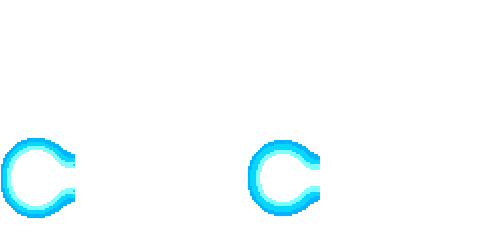
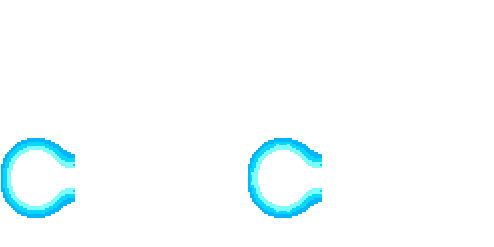
kameha ok, revori collision

Changed region(s): [[0.4858, 0.5385, 0.668, 0.9069]]

diff --git a/src/main/java/com/andres_k/components/gameComponents/gameObject/objects/entities/Kamehameha.java b/src/main/java/com/andres_k/components/gameComponents/gameObject/objects/entities/Kamehameha.java
@@ -2,37 +2,71 @@ package com.andres_k.components.gameComponents.gameObject.objects.entities;
 
 import com.andres_k.components.eventComponent.input.EInput;
 import com.andres_k.components.gameComponents.animations.AnimatorController;
+import com.andres_k.components.gameComponents.animations.EAnimation;
 import com.andres_k.components.gameComponents.collisions.PhysicalObject;
 import com.andres_k.components.gameComponents.gameObject.EGameObject;
 import com.andres_k.components.gameComponents.gameObject.GameObject;
 import com.andres_k.components.gameComponents.gameObject.commands.movement.EDirection;
-import com.andres_k.utils.configs.GameConfig;
 import com.andres_k.utils.configs.GlobalVariable;
+import com.andres_k.utils.stockage.Pair;
 import com.andres_k.utils.tools.Console;
-import org.newdawn.slick.Animation;
+import com.andres_k.utils.tools.MathTools;
+import org.newdawn.slick.Graphics;
 import org.newdawn.slick.SlickException;
 
+import java.util.ArrayList;
+import java.util.List;
 import java.util.UUID;
 
 /**
  * Created by andres_k on 23/02/2016.
  */
 public class Kamehameha extends PhysicalObject {
-    private Animation body;
-    private Animation back;
-    private String parent;
+    private List<Pair<Float, AnimatorController>> bodiesAnim;
+    private AnimatorController body;
+    private AnimatorController back;
+    private boolean canCreateBodies;
+    private float saveX;
 
-    public Kamehameha(AnimatorController head, String parent, float x, float y, EDirection direction, float damage, float speed) {
-        super(head, EGameObject.KAMEHA, parent + GlobalVariable.id_delimiter + UUID.randomUUID().toString(), x, y, damage, damage, speed, 0);
+    public Kamehameha(AnimatorController head, AnimatorController body, AnimatorController back, String parent, float x, float y, EDirection direction, float damage, float speed) {
+        super(head, EGameObject.KAMEHA, parent + GlobalVariable.id_delimiter + UUID.randomUUID().toString(), (direction == EDirection.RIGHT ? x : x - 300), y + 10, damage, damage, speed, 0);
         this.movement.setMoveDirection(direction);
         this.animatorController.setEyesDirection(direction);
-        this.parent = parent;
-        this.movement.setPushX(GameConfig.speedTravel);
+        this.body = body;
+        this.back = back;
+        this.back.setPrintable(false);
+        this.back.setEyesDirection(direction);
+        this.body.setPrintable(false);
+        this.body.setEyesDirection(direction);
+        this.bodiesAnim = new ArrayList<>();
+        this.canCreateBodies = false;
+        if (direction == EDirection.RIGHT) {
+            this.saveX = x - 140;
+        } else {
+
+            this.saveX = x - 470;
+        }
     }
 
     @Override
     public void clear() {
+        this.bodiesAnim.clear();
+    }
 
+    @Override
+    public void draw(Graphics g) throws SlickException {
+        for (Pair<Float, AnimatorController> item : this.bodiesAnim) {
+            if (item.getV1() != this.saveX) {
+                item.getV2().draw(g, item.getV1(), this.graphicalY());
+            }
+        }
+        if (this.body != null) {
+            this.body.draw(g, this.getMaxBodyX(), this.graphicalY());
+        }
+        if (this.back != null) {
+            this.back.draw(g, this.saveX, this.graphicalY());
+        }
+        super.draw(g);
     }
 
     @Override
@@ -40,6 +74,20 @@ public class Kamehameha extends PhysicalObject {
         this.animatorController.update();
         this.animatorController.doCurrentAction(this);
         this.movement.update();
+        this.back.update();
+        this.body.update();
+        this.bodiesAnim.stream().forEach(item -> item.getV2().update());
+        if (this.animatorController.currentAnimationType() == EAnimation.SPE_ATTACK_1) {
+            this.body.setPrintable(true);
+            this.back.setPrintable(true);
+            this.canCreateBodies = true;
+        }
+        this.createNewBodySegment();
+    }
+
+    @Override
+    public boolean isNeedDelete() {
+        return (this.animatorController == null || this.back.isDeleted());
     }
 
     @Override
@@ -56,10 +104,38 @@ public class Kamehameha extends PhysicalObject {
     }
 
     @Override
+    public void die() {
+        super.die();
+        this.back.setCurrentAnimationType(EAnimation.EXPLODE);
+        this.body.setCurrentAnimationType(EAnimation.EXPLODE);
+        for (Pair<Float, AnimatorController> item : this.bodiesAnim) {
+            item.getV2().setCurrentAnimationType(EAnimation.EXPLODE);
+        }
+    }
+
+    @Override
     public void manageEachCollisionExceptHit(EGameObject mine, GameObject enemy, EGameObject him) {
         if (him == EGameObject.BLOCK_BODY && enemy.getType().isIn(EGameObject.DEADPAN)) {
             Console.write("KAMEHA DIE");
             this.die();
+        }
+    }
+
+    private void createNewBodySegment() throws SlickException {
+        if (this.body != null && this.canCreateBodies) {
+            if (MathTools.abs(this.graphicalX() - this.getMaxBodyX()) >= 60) {
+                this.bodiesAnim.add(new Pair<>(this.getMaxBodyX(), new AnimatorController(this.body)));
+            }
+        }
+    }
+
+    private float getMaxBodyX() {
+        if (this.bodiesAnim.isEmpty())
+            return this.saveX;
+        if (this.animatorController.getEyesDirection() == EDirection.RIGHT) {
+            return this.bodiesAnim.get(this.bodiesAnim.size() - 1).getV1() + 60;
+        } else {
+            return this.bodiesAnim.get(this.bodiesAnim.size() - 1).getV1() - 60;
         }
     }
 

diff --git a/src/main/java/com/andres_k/components/resourceComponent/resources/factory/AnimatorGameFactory.java b/src/main/java/com/andres_k/components/resourceComponent/resources/factory/AnimatorGameFactory.java
@@ -96,7 +96,7 @@ public class AnimatorGameFactory extends AnimatorFactory {
             animatorController.addCollision(EAnimation.HAND_FLY_PROPELS, 0, StringTools.readInput(getClass().getClassLoader().getResourceAsStream(ConfigPath.jsonCollision + "/player" + name + state + "/gokuHandFlyPropels.json")));
             animatorController.addConfig(EAnimation.HAND_FLY_PROPELS, 0, new AnimatorConfig(GokuActions.class.getMethod("handFlyPropels", GameObject.class), true, EAnimation.FALL_FORCED));
             // SPE_ATTACK_1
-            animatorController.addAnimation(EAnimation.SPE_ATTACK_1, 0, AnimationFactory.createAnimation(new SpriteSheet(ConfigPath.image_game + name + state + "/gokuKamehameha.png", 247, 247), EAnimation.HAND_FLY_PROPELS.isLoop(), 0, 10, 0, 1, new int[]{300, 350, 400, 400, 620, 200, 800, 150, 150, 150}));
+            animatorController.addAnimation(EAnimation.SPE_ATTACK_1, 0, AnimationFactory.createAnimation(new SpriteSheet(ConfigPath.image_game + name + state + "/gokuKamehameha.png", 247, 247), EAnimation.HAND_FLY_PROPELS.isLoop(), 0, 10, 0, 1, new int[]{300, 350, 400, 400, 620, 200, 1000, 150, 150, 150}));
             animatorController.addCollision(EAnimation.SPE_ATTACK_1, 0, StringTools.readInput(getClass().getClassLoader().getResourceAsStream(ConfigPath.jsonCollision + "/player" + name + state + "/gokuKamehameha.json")));
             animatorController.addConfig(EAnimation.SPE_ATTACK_1, 0, new AnimatorConfig(GokuActions.class.getMethod("speAttack1", GameObject.class), false));
             animatorController.addEffect(EAnimation.SPE_ATTACK_1, 0, 0, EffectFactory.createAnimationEffect(AnimationFactory.createAnimation(new SpriteSheet(ConfigPath.image_game + "/entity/kameha" + "/kameha_expr.png", 85, 70), false, 0, 3, 0, 1, new int[]{1000, 1000, 800}), 60, 60, false));
@@ -121,11 +121,22 @@ public class AnimatorGameFactory extends AnimatorFactory {
         AnimatorController animatorController = new AnimatorController();
 
         if (index == ESprites.KAMEHA) {
-            animatorController.addAnimation(EAnimation.IDLE, 0, AnimationFactory.createAnimation(new SpriteSheet(ConfigPath.image_game + "/entity/kameha" + "/kameha_head0.png", 247, 247), false, 0, 1, 0, 1, new int[]{300}));
+            animatorController.addAnimation(EAnimation.IDLE, 0, AnimationFactory.createAnimation(new SpriteSheet(ConfigPath.image_game + "/entity/kameha" + "/kameha_head0.png", 247, 247), false, 0, 2, 0, 1, new int[]{150, 150}));
+            animatorController.addCollision(EAnimation.IDLE, 0, StringTools.readInput(getClass().getClassLoader().getResourceAsStream(ConfigPath.jsonCollision + "/entity/kameha" + "/kameha_head0.json")));
             animatorController.addConfig(EAnimation.IDLE, 0, new AnimatorConfig(EAnimation.SPE_ATTACK_1, 0));
             animatorController.addAnimation(EAnimation.SPE_ATTACK_1, 0, AnimationFactory.createAnimation(new SpriteSheet(ConfigPath.image_game + "/entity/kameha" + "/kameha_head1.png", 247, 247), true, 0, 2, 0, 1, new int[]{150, 150}));
             animatorController.addCollision(EAnimation.SPE_ATTACK_1, 0, StringTools.readInput(getClass().getClassLoader().getResourceAsStream(ConfigPath.jsonCollision + "/entity/kameha" + "/kameha_head1.json")));
             animatorController.addConfig(EAnimation.SPE_ATTACK_1, 0, new AnimatorConfig(KamehaActions.class.getMethod("speAttack", GameObject.class), true));
+        } else if (index == ESprites.KAMEHA_Back) {
+            animatorController.addAnimation(EAnimation.IDLE, 0, AnimationFactory.createAnimation(new SpriteSheet(ConfigPath.image_game + "/entity/kameha" + "/kameha_back1.png", 247, 247), true, 0, 2, 0, 1, new int[]{200, 200}));
+            animatorController.addCollision(EAnimation.IDLE, 0, StringTools.readInput(getClass().getClassLoader().getResourceAsStream(ConfigPath.jsonCollision + "/entity/kameha" + "/kameha_back1.json")));
+            animatorController.addAnimation(EAnimation.EXPLODE, 0, AnimationFactory.createAnimation(new SpriteSheet(ConfigPath.image_game + "/entity/kameha" + "/kameha_back2.png", 247, 247), false, 0, 4, 0, 1, new int[]{100, 100, 100, 100}));
+            animatorController.addCollision(EAnimation.EXPLODE, 0, StringTools.readInput(getClass().getClassLoader().getResourceAsStream(ConfigPath.jsonCollision + "/entity/kameha" + "/kameha_back2.json")));
+        } else if (index == ESprites.KAMEHA_Body) {
+            animatorController.addAnimation(EAnimation.IDLE, 0, AnimationFactory.createAnimation(new SpriteSheet(ConfigPath.image_game + "/entity/kameha" + "/kameha_body1.png", 247, 247), true, 0, 2, 0, 1, new int[]{250, 250}));
+            animatorController.addCollision(EAnimation.IDLE, 0, StringTools.readInput(getClass().getClassLoader().getResourceAsStream(ConfigPath.jsonCollision + "/entity/kameha" + "/kameha_body1.json")));
+            animatorController.addAnimation(EAnimation.EXPLODE, 0, AnimationFactory.createAnimation(new SpriteSheet(ConfigPath.image_game + "/entity/kameha" + "/kameha_body2.png", 247, 247), false, 0, 4, 0, 1, new int[]{60, 60, 60, 60}));
+            animatorController.addCollision(EAnimation.EXPLODE, 0, StringTools.readInput(getClass().getClassLoader().getResourceAsStream(ConfigPath.jsonCollision + "/entity/kameha" + "/kameha_body2.json")));
         }
         return animatorController;
     }

diff --git a/src/main/java/com/andres_k/components/gameComponents/collisions/PhysicalObject.java b/src/main/java/com/andres_k/components/gameComponents/collisions/PhysicalObject.java
@@ -51,7 +51,8 @@ public abstract class PhysicalObject extends GameObject {
 
     public boolean checkBorderCollision(GameObject enemy, Pair<Float, Float> pos) {
         if (this.getAnimatorController().currentAnimationType() != EAnimation.EXPLODE &&
-                enemy.getAnimatorController().currentAnimationType() != EAnimation.EXPLODE) {
+                enemy.getAnimatorController().currentAnimationType() != EAnimation.EXPLODE &&
+                !enemy.getId().contains(this.getId())) {
             BodySprite myBody = this.getBody();
             BodySprite hisBody = enemy.getBody();
 
@@ -107,8 +108,6 @@ public abstract class PhysicalObject extends GameObject {
     }
 
     private void doCollision(GameObject enemy, BodyRect myRect, BodyRect hisRect, Shape myShape, Shape hisShape, CollisionResult result, Pair<Float, Float> pos, int mode) {
-        if (this.getType() == EGameObject.KAMEHA) {
-        }
         if (!myRect.containsCollision(hisRect.getId()) && !hisRect.containsCollision(myRect.getId())) {
             if (myRect.getType() == EGameObject.ATTACK_BODY && hisRect.getType() == EGameObject.DEFENSE_BODY) {
                 enemy.getHit(this);

diff --git a/src/main/java/com/andres_k/components/gameComponents/animations/AnimatorController.java b/src/main/java/com/andres_k/components/gameComponents/animations/AnimatorController.java
@@ -2,6 +2,7 @@ package com.andres_k.components.gameComponents.animations;
 
 import com.andres_k.components.gameComponents.bodies.BodyAnimation;
 import com.andres_k.components.gameComponents.bodies.BodySprite;
+import com.andres_k.components.gameComponents.gameObject.EGameObject;
 import com.andres_k.components.gameComponents.gameObject.GameObject;
 import com.andres_k.components.gameComponents.gameObject.commands.movement.EDirection;
 import com.andres_k.components.graphicComponents.effects.effect.Effect;
@@ -120,6 +121,9 @@ public class AnimatorController implements Observer {
     public void doCurrentAction(GameObject object) throws SlickException {
         this.getCurrentContainer().doAction(object, this.currentFrame());
         if (this.currentAnimation().isStopped()) {
+            if (object.getType() == EGameObject.KAMEHA) {
+                Console.write("NextAnim");
+            }
             this.toNextAnimation();
             if (this.current == EAnimation.FALL) {
                 object.getMovement().resetGravity();

diff --git a/src/main/java/com/andres_k/components/gameComponents/gameObject/objects/players/Goku.java b/src/main/java/com/andres_k/components/gameComponents/gameObject/objects/players/Goku.java
@@ -28,7 +28,7 @@ public class Goku extends Player {
 
     public void createKamehameha() {
         try {
-            Kamehameha kameha = new Kamehameha(ResourceManager.get().getGameAnimator(EGameObject.KAMEHA), this.id, this.getPosX(), this.getPosY(), this.getAnimatorController().getEyesDirection(), 100, 500);
+            Kamehameha kameha = new Kamehameha(ResourceManager.get().getGameAnimator(EGameObject.KAMEHA), ResourceManager.get().getGameAnimator(EGameObject.KAMEHA_Body), ResourceManager.get().getGameAnimator(EGameObject.KAMEHA_Back), this.id, this.getPosX() + 120, this.getPosY(), this.getAnimatorController().getEyesDirection(), 100, 800);
             CentralTaskManager.get().sendRequest(new TaskComponent(ELocation.UNKNOWN, ELocation.GAME_CONTROLLER, new Pair<>(ETaskType.CREATE, kameha)));
         } catch (SlickException e) {
             e.printStackTrace();

diff --git a/src/main/java/com/andres_k/components/resourceComponent/resources/data/AnimatorGameData.java b/src/main/java/com/andres_k/components/resourceComponent/resources/data/AnimatorGameData.java
@@ -50,6 +50,8 @@ public class AnimatorGameData extends DataManager {
         this.addItemAnimator(this.animatorFactory.getAnimator(ESprites.GROUND), EGameObject.GROUND);
         this.addItemAnimator(this.animatorFactory.getAnimator(ESprites.WALL), EGameObject.WALL);
         this.addItemAnimator(this.animatorFactory.getAnimator(ESprites.KAMEHA), EGameObject.KAMEHA);
+        this.addItemAnimator(this.animatorFactory.getAnimator(ESprites.KAMEHA_Back), EGameObject.KAMEHA_Back);
+        this.addItemAnimator(this.animatorFactory.getAnimator(ESprites.KAMEHA_Body), EGameObject.KAMEHA_Body);
     }
 
     private void addPlayerAnimator(AnimatorController animatorController, EGameObject type) {

diff --git a/src/main/java/com/andres_k/components/gameComponents/gameObject/commands/actionComponent/entity/KamehaActions.java b/src/main/java/com/andres_k/components/gameComponents/gameObject/commands/actionComponent/entity/KamehaActions.java
@@ -1,11 +1,13 @@
 package com.andres_k.components.gameComponents.gameObject.commands.actionComponent.entity;
 
 import com.andres_k.components.gameComponents.gameObject.GameObject;
+import com.andres_k.utils.configs.GameConfig;
 
 /**
  * Created by andres_k on 23/02/2016.
  */
 public class KamehaActions {
     public static void speAttack(GameObject object) {
+        object.getMovement().setPushX(GameConfig.speedTravel);
     }
 }

diff --git a/src/main/java/com/andres_k/components/gameComponents/gameObject/EGameObject.java b/src/main/java/com/andres_k/components/gameComponents/gameObject/EGameObject.java
@@ -31,6 +31,8 @@ public enum EGameObject {
 
     //entities
     KAMEHA("KAMEHA", ENTITY.getValue()),
+    KAMEHA_Back("KAMEHA", ENTITY.getValue()),
+    KAMEHA_Body("KAMEHA", ENTITY.getValue()),
 
     //players
     GOKU("Goku", PLAYER.getValue()),

diff --git a/src/main/java/com/andres_k/components/resourceComponent/resources/ESprites.java b/src/main/java/com/andres_k/components/resourceComponent/resources/ESprites.java
@@ -78,6 +78,8 @@ public enum ESprites {
 
     //gameEntity
     KAMEHA(ENTITY.getIndex()),
+    KAMEHA_Back(ENTITY.getIndex()),
+    KAMEHA_Body(ENTITY.getIndex()),
 
     //background
     LOAD_SCREEN(SCREEN_BACKGROUND.getIndex()),
